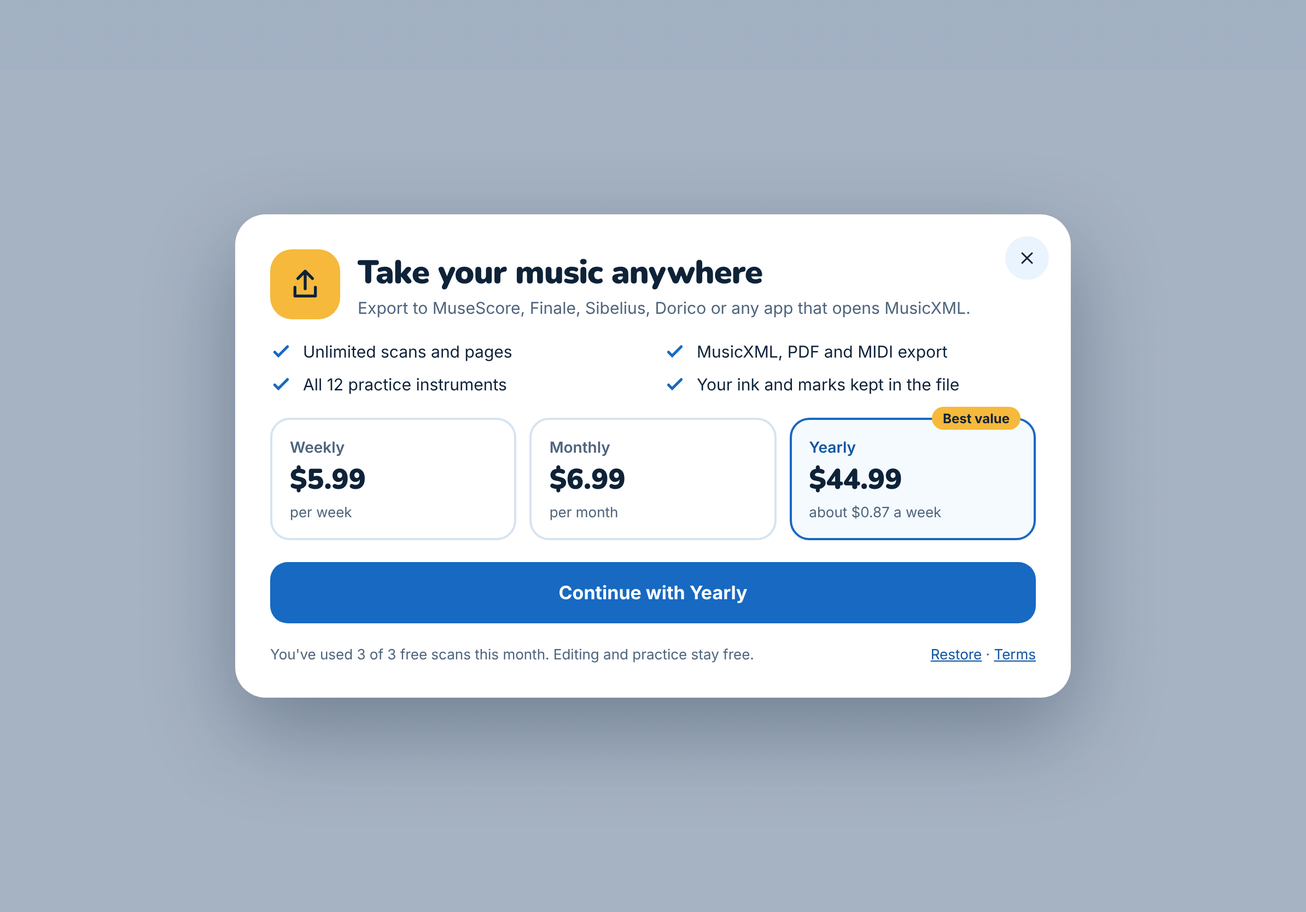
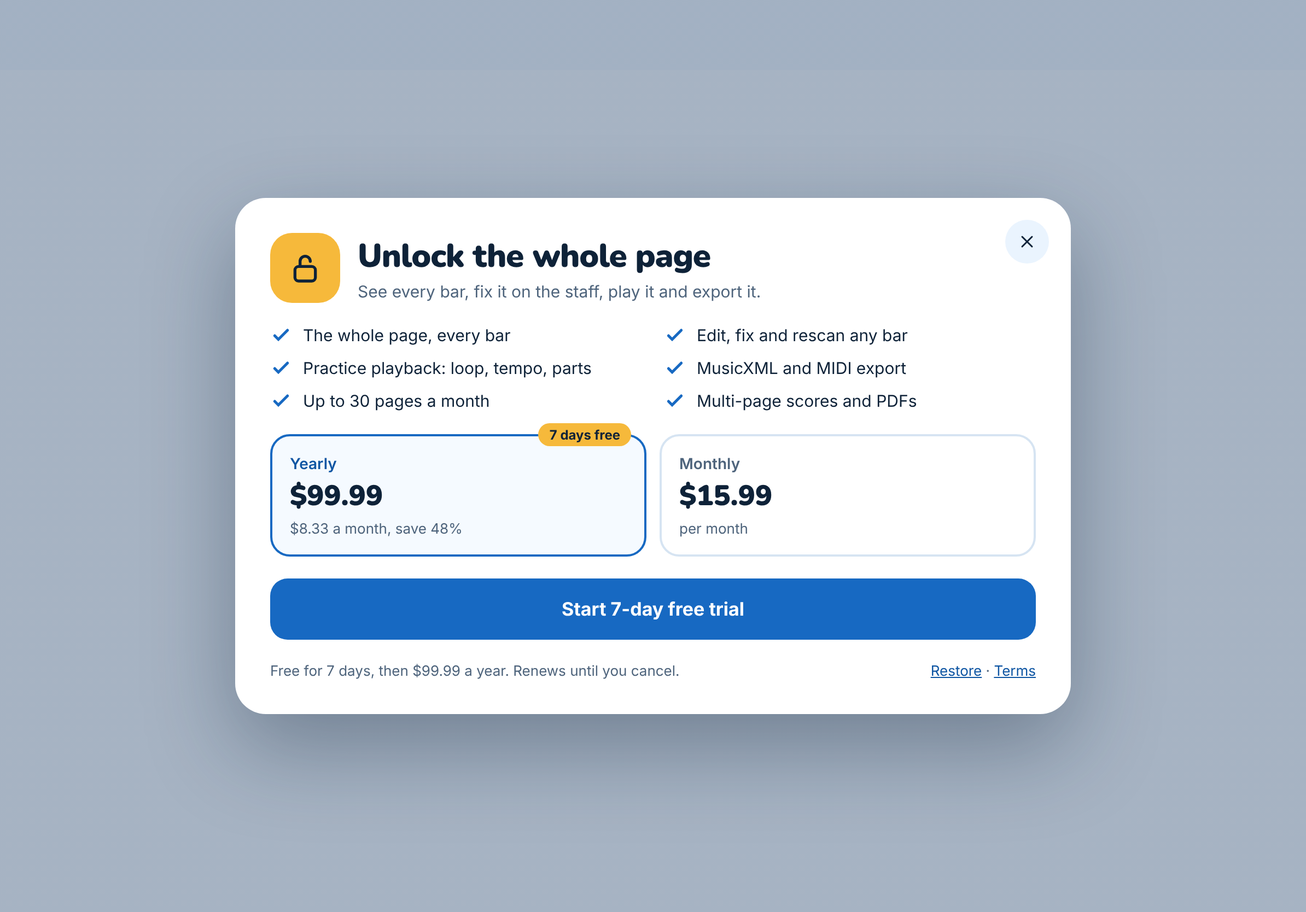
Sky design: wireframes and README match the current plans (1 free page, Pro $15.99/mo or $99.99/yr with 7-day trial, no weekly)
Claude-Session: https://claude.ai/code/session_01KFLYEm6B58rGuy4fTwAdzp

Changed region(s): [[0.1859, 0.2182, 0.8367, 0.8106]]

diff --git a/design/sky/source/iPad-8-Paywall.dc.html b/design/sky/source/iPad-8-Paywall.dc.html
@@ -24,22 +24,23 @@ a{color:#0F56A3}a:hover{color:#0E2238}
 <div style="position:relative;width:700px;border-radius:28px;background:#FFFFFF;box-shadow:0 30px 80px rgba(14,34,56,.35);padding:32px;display:flex;flex-direction:column;gap:20px">
 <a href="iPad-5-Editor.dc.html" aria-label="Close" style="position:absolute;right:20px;top:20px;display:grid;place-items:center;width:40px;height:40px;border-radius:99px;background:#EAF4FE;color:#0E2238"><svg width="18" height="18" viewBox="0 0 24 24" fill="none" stroke="currentColor" stroke-width="2" stroke-linecap="round" aria-hidden="true"><path d="M6 6l12 12M18 6L6 18"/></svg></a>
 <div style="display:flex;align-items:center;gap:16px">
-<div style="display:grid;place-items:center;width:64px;height:64px;border-radius:20px;background:#F6B93B"><svg width="32" height="32" viewBox="0 0 24 24" fill="none" stroke="#0E2238" stroke-width="2" stroke-linecap="round" stroke-linejoin="round" aria-hidden="true"><path d="M12 3v12M7 8l5-5 5 5M5 14v6h14v-6"/></svg></div>
-<div><div class="disp" style="font-size:30px;font-weight:900;letter-spacing:-.02em">Take your music anywhere</div><div style="font-size:15px;color:#4E647C;margin-top:2px">Export to MuseScore, Finale, Sibelius, Dorico or any app that opens MusicXML.</div></div>
+<div style="display:grid;place-items:center;width:64px;height:64px;border-radius:20px;background:#F6B93B"><svg width="32" height="32" viewBox="0 0 24 24" fill="none" stroke="#0E2238" stroke-width="2" stroke-linecap="round" stroke-linejoin="round" aria-hidden="true"><rect x="5" y="11" width="14" height="10" rx="2.5"/><path d="M8.5 11V7.5a3.5 3.5 0 0 1 7 0"/></svg></div>
+<div><div class="disp" style="font-size:30px;font-weight:900;letter-spacing:-.02em">Unlock the whole page</div><div style="font-size:15px;color:#4E647C;margin-top:2px">See every bar, fix it on the staff, play it and export it.</div></div>
 </div>
 <div style="display:grid;grid-template-columns:repeat(2,minmax(0,1fr));gap:10px 20px">
-<div class="li"><svg width="20" height="20" viewBox="0 0 24 24" fill="none" stroke="#1769C2" stroke-width="3" stroke-linecap="round" aria-hidden="true"><path d="M5 12l4 4 10-10"/></svg>Unlimited scans and pages</div>
-<div class="li"><svg width="20" height="20" viewBox="0 0 24 24" fill="none" stroke="#1769C2" stroke-width="3" stroke-linecap="round" aria-hidden="true"><path d="M5 12l4 4 10-10"/></svg>MusicXML, PDF and MIDI export</div>
-<div class="li"><svg width="20" height="20" viewBox="0 0 24 24" fill="none" stroke="#1769C2" stroke-width="3" stroke-linecap="round" aria-hidden="true"><path d="M5 12l4 4 10-10"/></svg>All 12 practice instruments</div>
-<div class="li"><svg width="20" height="20" viewBox="0 0 24 24" fill="none" stroke="#1769C2" stroke-width="3" stroke-linecap="round" aria-hidden="true"><path d="M5 12l4 4 10-10"/></svg>Your ink and marks kept in the file</div>
+<div class="li"><svg width="20" height="20" viewBox="0 0 24 24" fill="none" stroke="#1769C2" stroke-width="3" stroke-linecap="round" aria-hidden="true"><path d="M5 12l4 4 10-10"/></svg>The whole page, every bar</div>
+<div class="li"><svg width="20" height="20" viewBox="0 0 24 24" fill="none" stroke="#1769C2" stroke-width="3" stroke-linecap="round" aria-hidden="true"><path d="M5 12l4 4 10-10"/></svg>Edit, fix and rescan any bar</div>
+<div class="li"><svg width="20" height="20" viewBox="0 0 24 24" fill="none" stroke="#1769C2" stroke-width="3" stroke-linecap="round" aria-hidden="true"><path d="M5 12l4 4 10-10"/></svg>Practice playback: loop, tempo, parts</div>
+<div class="li"><svg width="20" height="20" viewBox="0 0 24 24" fill="none" stroke="#1769C2" stroke-width="3" stroke-linecap="round" aria-hidden="true"><path d="M5 12l4 4 10-10"/></svg>MusicXML and MIDI export</div>
+<div class="li"><svg width="20" height="20" viewBox="0 0 24 24" fill="none" stroke="#1769C2" stroke-width="3" stroke-linecap="round" aria-hidden="true"><path d="M5 12l4 4 10-10"/></svg>Up to 30 pages a month</div>
+<div class="li"><svg width="20" height="20" viewBox="0 0 24 24" fill="none" stroke="#1769C2" stroke-width="3" stroke-linecap="round" aria-hidden="true"><path d="M5 12l4 4 10-10"/></svg>Multi-page scores and PDFs</div>
 </div>
-<div style="display:grid;grid-template-columns:repeat(3,minmax(0,1fr));gap:12px">
-<button class="plan"><span style="font-size:14px;font-weight:600;color:#4E647C">Weekly</span><span class="disp" style="font-size:26px;font-weight:900">$5.99</span><span style="font-size:13px;color:#4E647C">per week</span></button>
-<button class="plan"><span style="font-size:14px;font-weight:600;color:#4E647C">Monthly</span><span class="disp" style="font-size:26px;font-weight:900">$6.99</span><span style="font-size:13px;color:#4E647C">per month</span></button>
-<button class="plan on"><span style="position:absolute;top:-12px;right:12px;padding:3px 10px;border-radius:99px;background:#F6B93B;font-size:12px;font-weight:700">Best value</span><span style="font-size:14px;font-weight:600;color:#0F56A3">Yearly</span><span class="disp" style="font-size:26px;font-weight:900">$44.99</span><span style="font-size:13px;color:#4E647C">about $0.87 a week</span></button>
+<div style="display:grid;grid-template-columns:repeat(2,minmax(0,1fr));gap:12px">
+<button class="plan on"><span style="position:absolute;top:-12px;right:12px;padding:3px 10px;border-radius:99px;background:#F6B93B;font-size:12px;font-weight:700">7 days free</span><span style="font-size:14px;font-weight:600;color:#0F56A3">Yearly</span><span class="disp" style="font-size:26px;font-weight:900">$99.99</span><span style="font-size:13px;color:#4E647C">$8.33 a month, save 48%</span></button>
+<button class="plan"><span style="font-size:14px;font-weight:600;color:#4E647C">Monthly</span><span class="disp" style="font-size:26px;font-weight:900">$15.99</span><span style="font-size:13px;color:#4E647C">per month</span></button>
 </div>
-<button class="btn" style="background:#1769C2;color:#FFFFFF">Continue with Yearly</button>
-<div style="display:flex;justify-content:space-between;font-size:13px;color:#4E647C"><span>You've used 3 of 3 free scans this month. Editing and practice stay free.</span><span><a href="#">Restore</a> · <a href="#">Terms</a></span></div>
+<button class="btn" style="background:#1769C2;color:#FFFFFF">Start 7-day free trial</button>
+<div style="display:flex;justify-content:space-between;font-size:13px;color:#4E647C"><span>Free for 7 days, then $99.99 a year. Renews until you cancel.</span><span><a href="#">Restore</a> · <a href="#">Terms</a></span></div>
 </div>
 </div>
 </x-dc>

diff --git a/design/sky/wireframes/iPad-8-Paywall.html b/design/sky/wireframes/iPad-8-Paywall.html
@@ -21,22 +21,23 @@ a{color:#0F56A3}a:hover{color:#0E2238}
 <div style="position:relative;width:700px;border-radius:28px;background:#FFFFFF;box-shadow:0 30px 80px rgba(14,34,56,.35);padding:32px;display:flex;flex-direction:column;gap:20px">
 <a href="iPad-5-Editor.html" aria-label="Close" style="position:absolute;right:20px;top:20px;display:grid;place-items:center;width:40px;height:40px;border-radius:99px;background:#EAF4FE;color:#0E2238"><svg width="18" height="18" viewBox="0 0 24 24" fill="none" stroke="currentColor" stroke-width="2" stroke-linecap="round" aria-hidden="true"><path d="M6 6l12 12M18 6L6 18"/></svg></a>
 <div style="display:flex;align-items:center;gap:16px">
-<div style="display:grid;place-items:center;width:64px;height:64px;border-radius:20px;background:#F6B93B"><svg width="32" height="32" viewBox="0 0 24 24" fill="none" stroke="#0E2238" stroke-width="2" stroke-linecap="round" stroke-linejoin="round" aria-hidden="true"><path d="M12 3v12M7 8l5-5 5 5M5 14v6h14v-6"/></svg></div>
-<div><div class="disp" style="font-size:30px;font-weight:900;letter-spacing:-.02em">Take your music anywhere</div><div style="font-size:15px;color:#4E647C;margin-top:2px">Export to MuseScore, Finale, Sibelius, Dorico or any app that opens MusicXML.</div></div>
+<div style="display:grid;place-items:center;width:64px;height:64px;border-radius:20px;background:#F6B93B"><svg width="32" height="32" viewBox="0 0 24 24" fill="none" stroke="#0E2238" stroke-width="2" stroke-linecap="round" stroke-linejoin="round" aria-hidden="true"><rect x="5" y="11" width="14" height="10" rx="2.5"/><path d="M8.5 11V7.5a3.5 3.5 0 0 1 7 0"/></svg></div>
+<div><div class="disp" style="font-size:30px;font-weight:900;letter-spacing:-.02em">Unlock the whole page</div><div style="font-size:15px;color:#4E647C;margin-top:2px">See every bar, fix it on the staff, play it and export it.</div></div>
 </div>
 <div style="display:grid;grid-template-columns:repeat(2,minmax(0,1fr));gap:10px 20px">
-<div class="li"><svg width="20" height="20" viewBox="0 0 24 24" fill="none" stroke="#1769C2" stroke-width="3" stroke-linecap="round" aria-hidden="true"><path d="M5 12l4 4 10-10"/></svg>Unlimited scans and pages</div>
-<div class="li"><svg width="20" height="20" viewBox="0 0 24 24" fill="none" stroke="#1769C2" stroke-width="3" stroke-linecap="round" aria-hidden="true"><path d="M5 12l4 4 10-10"/></svg>MusicXML, PDF and MIDI export</div>
-<div class="li"><svg width="20" height="20" viewBox="0 0 24 24" fill="none" stroke="#1769C2" stroke-width="3" stroke-linecap="round" aria-hidden="true"><path d="M5 12l4 4 10-10"/></svg>All 12 practice instruments</div>
-<div class="li"><svg width="20" height="20" viewBox="0 0 24 24" fill="none" stroke="#1769C2" stroke-width="3" stroke-linecap="round" aria-hidden="true"><path d="M5 12l4 4 10-10"/></svg>Your ink and marks kept in the file</div>
+<div class="li"><svg width="20" height="20" viewBox="0 0 24 24" fill="none" stroke="#1769C2" stroke-width="3" stroke-linecap="round" aria-hidden="true"><path d="M5 12l4 4 10-10"/></svg>The whole page, every bar</div>
+<div class="li"><svg width="20" height="20" viewBox="0 0 24 24" fill="none" stroke="#1769C2" stroke-width="3" stroke-linecap="round" aria-hidden="true"><path d="M5 12l4 4 10-10"/></svg>Edit, fix and rescan any bar</div>
+<div class="li"><svg width="20" height="20" viewBox="0 0 24 24" fill="none" stroke="#1769C2" stroke-width="3" stroke-linecap="round" aria-hidden="true"><path d="M5 12l4 4 10-10"/></svg>Practice playback: loop, tempo, parts</div>
+<div class="li"><svg width="20" height="20" viewBox="0 0 24 24" fill="none" stroke="#1769C2" stroke-width="3" stroke-linecap="round" aria-hidden="true"><path d="M5 12l4 4 10-10"/></svg>MusicXML and MIDI export</div>
+<div class="li"><svg width="20" height="20" viewBox="0 0 24 24" fill="none" stroke="#1769C2" stroke-width="3" stroke-linecap="round" aria-hidden="true"><path d="M5 12l4 4 10-10"/></svg>Up to 30 pages a month</div>
+<div class="li"><svg width="20" height="20" viewBox="0 0 24 24" fill="none" stroke="#1769C2" stroke-width="3" stroke-linecap="round" aria-hidden="true"><path d="M5 12l4 4 10-10"/></svg>Multi-page scores and PDFs</div>
 </div>
-<div style="display:grid;grid-template-columns:repeat(3,minmax(0,1fr));gap:12px">
-<button class="plan"><span style="font-size:14px;font-weight:600;color:#4E647C">Weekly</span><span class="disp" style="font-size:26px;font-weight:900">$5.99</span><span style="font-size:13px;color:#4E647C">per week</span></button>
-<button class="plan"><span style="font-size:14px;font-weight:600;color:#4E647C">Monthly</span><span class="disp" style="font-size:26px;font-weight:900">$6.99</span><span style="font-size:13px;color:#4E647C">per month</span></button>
-<button class="plan on"><span style="position:absolute;top:-12px;right:12px;padding:3px 10px;border-radius:99px;background:#F6B93B;font-size:12px;font-weight:700">Best value</span><span style="font-size:14px;font-weight:600;color:#0F56A3">Yearly</span><span class="disp" style="font-size:26px;font-weight:900">$44.99</span><span style="font-size:13px;color:#4E647C">about $0.87 a week</span></button>
+<div style="display:grid;grid-template-columns:repeat(2,minmax(0,1fr));gap:12px">
+<button class="plan on"><span style="position:absolute;top:-12px;right:12px;padding:3px 10px;border-radius:99px;background:#F6B93B;font-size:12px;font-weight:700">7 days free</span><span style="font-size:14px;font-weight:600;color:#0F56A3">Yearly</span><span class="disp" style="font-size:26px;font-weight:900">$99.99</span><span style="font-size:13px;color:#4E647C">$8.33 a month, save 48%</span></button>
+<button class="plan"><span style="font-size:14px;font-weight:600;color:#4E647C">Monthly</span><span class="disp" style="font-size:26px;font-weight:900">$15.99</span><span style="font-size:13px;color:#4E647C">per month</span></button>
 </div>
-<button class="btn" style="background:#1769C2;color:#FFFFFF">Continue with Yearly</button>
-<div style="display:flex;justify-content:space-between;font-size:13px;color:#4E647C"><span>You've used 3 of 3 free scans this month. Editing and practice stay free.</span><span><a href="#">Restore</a> · <a href="#">Terms</a></span></div>
+<button class="btn" style="background:#1769C2;color:#FFFFFF">Start 7-day free trial</button>
+<div style="display:flex;justify-content:space-between;font-size:13px;color:#4E647C"><span>Free for 7 days, then $99.99 a year. Renews until you cancel.</span><span><a href="#">Restore</a> · <a href="#">Terms</a></span></div>
 </div>
 </div>
 </body>

diff --git a/design/sky/source/iPhone-5-Paywall.dc.html b/design/sky/source/iPhone-5-Paywall.dc.html
@@ -21,20 +21,21 @@ a{color:#0F56A3}a:hover{color:#0E2238}
 </helmet>
 <div style="width:390px;height:844px;box-sizing:border-box;background:#FFFFFF;font-family:Inter,system-ui,sans-serif;color:#0E2238;display:flex;flex-direction:column;gap:16px;padding:60px 20px 34px">
 <div style="display:flex;justify-content:flex-end"><a href="iPhone-3-Editor.dc.html" aria-label="Close" style="display:grid;place-items:center;width:40px;height:40px;border-radius:99px;background:#EAF4FE;color:#0E2238"><svg width="18" height="18" viewBox="0 0 24 24" fill="none" stroke="currentColor" stroke-width="2" stroke-linecap="round" aria-hidden="true"><path d="M6 6l12 12M18 6L6 18"/></svg></a></div>
-<div style="display:grid;place-items:center;width:64px;height:64px;border-radius:20px;background:#F6B93B"><svg width="30" height="30" viewBox="0 0 24 24" fill="none" stroke="#0E2238" stroke-width="2" stroke-linecap="round" stroke-linejoin="round" aria-hidden="true"><path d="M12 3v12M7 8l5-5 5 5M5 14v6h14v-6"/></svg></div>
-<div class="disp" style="font-size:30px;font-weight:900;letter-spacing:-.02em;line-height:1.1">Take your music anywhere</div>
+<div style="display:grid;place-items:center;width:64px;height:64px;border-radius:20px;background:#F6B93B"><svg width="30" height="30" viewBox="0 0 24 24" fill="none" stroke="#0E2238" stroke-width="2" stroke-linecap="round" stroke-linejoin="round" aria-hidden="true"><rect x="5" y="11" width="14" height="10" rx="2.5"/><path d="M8.5 11V7.5a3.5 3.5 0 0 1 7 0"/></svg></div>
+<div class="disp" style="font-size:30px;font-weight:900;letter-spacing:-.02em;line-height:1.1">Unlock the whole page</div>
 <div style="display:flex;flex-direction:column;gap:10px">
-<div class="li"><svg width="18" height="18" viewBox="0 0 24 24" fill="none" stroke="#1769C2" stroke-width="3" stroke-linecap="round" aria-hidden="true"><path d="M5 12l4 4 10-10"/></svg>Unlimited scans and pages</div>
-<div class="li"><svg width="18" height="18" viewBox="0 0 24 24" fill="none" stroke="#1769C2" stroke-width="3" stroke-linecap="round" aria-hidden="true"><path d="M5 12l4 4 10-10"/></svg>MusicXML, PDF and MIDI export</div>
-<div class="li"><svg width="18" height="18" viewBox="0 0 24 24" fill="none" stroke="#1769C2" stroke-width="3" stroke-linecap="round" aria-hidden="true"><path d="M5 12l4 4 10-10"/></svg>All 12 practice instruments</div>
+<div class="li"><svg width="18" height="18" viewBox="0 0 24 24" fill="none" stroke="#1769C2" stroke-width="3" stroke-linecap="round" aria-hidden="true"><path d="M5 12l4 4 10-10"/></svg>The whole page, every bar</div>
+<div class="li"><svg width="18" height="18" viewBox="0 0 24 24" fill="none" stroke="#1769C2" stroke-width="3" stroke-linecap="round" aria-hidden="true"><path d="M5 12l4 4 10-10"/></svg>Edit, fix and rescan any bar</div>
+<div class="li"><svg width="18" height="18" viewBox="0 0 24 24" fill="none" stroke="#1769C2" stroke-width="3" stroke-linecap="round" aria-hidden="true"><path d="M5 12l4 4 10-10"/></svg>Practice playback: loop, tempo, parts</div>
+<div class="li"><svg width="18" height="18" viewBox="0 0 24 24" fill="none" stroke="#1769C2" stroke-width="3" stroke-linecap="round" aria-hidden="true"><path d="M5 12l4 4 10-10"/></svg>MusicXML and MIDI export</div>
+<div class="li"><svg width="18" height="18" viewBox="0 0 24 24" fill="none" stroke="#1769C2" stroke-width="3" stroke-linecap="round" aria-hidden="true"><path d="M5 12l4 4 10-10"/></svg>Up to 30 pages a month</div>
 </div>
 <div style="display:flex;flex-direction:column;gap:8px;margin-top:auto">
-<button class="plan on"><span class="rad" style="border:6px solid #1769C2"></span><span style="flex:1"><b>Yearly</b><br><span style="font-size:13px;color:#4E647C">$44.99 · about $0.87 a week</span></span><span style="padding:3px 8px;border-radius:99px;background:#F6B93B;font-size:11px;font-weight:700">Best value</span></button>
-<button class="plan"><span class="rad"></span><span style="flex:1"><b>Monthly</b><br><span style="font-size:13px;color:#4E647C">$6.99 a month</span></span></button>
-<button class="plan"><span class="rad"></span><span style="flex:1"><b>Weekly</b><br><span style="font-size:13px;color:#4E647C">$5.99 a week</span></span></button>
+<button class="plan on"><span class="rad" style="border:6px solid #1769C2"></span><span style="flex:1"><b>Yearly</b><br><span style="font-size:13px;color:#4E647C">$99.99 a year · $8.33 a month</span></span><span style="padding:3px 8px;border-radius:99px;background:#F6B93B;font-size:11px;font-weight:700">7 days free</span></button>
+<button class="plan"><span class="rad"></span><span style="flex:1"><b>Monthly</b><br><span style="font-size:13px;color:#4E647C">$15.99 a month</span></span></button>
 </div>
-<button style="height:56px;border-radius:16px;border:0;background:#1769C2;color:#FFFFFF;font:700 17px Inter,system-ui,sans-serif">Continue</button>
-<div style="text-align:center;font-size:12px;color:#4E647C">Editing and practice stay free. <a href="#">Restore</a> · <a href="#">Terms</a></div>
+<button style="height:56px;border-radius:16px;border:0;background:#1769C2;color:#FFFFFF;font:700 17px Inter,system-ui,sans-serif">Start 7-day free trial</button>
+<div style="text-align:center;font-size:12px;color:#4E647C">Free for 7 days, then $99.99 a year. <a href="#">Restore</a> · <a href="#">Terms</a></div>
 </div>
 </x-dc>
 <script type="text/x-dc" data-dc-script data-props='{"$preview":{"width":390,"height":844}}'>

diff --git a/design/sky/wireframes/iPhone-5-Paywall.html b/design/sky/wireframes/iPhone-5-Paywall.html
@@ -18,20 +18,21 @@ a{color:#0F56A3}a:hover{color:#0E2238}
 <body>
 <div style="width:390px;height:844px;box-sizing:border-box;background:#FFFFFF;font-family:Inter,system-ui,sans-serif;color:#0E2238;display:flex;flex-direction:column;gap:16px;padding:60px 20px 34px">
 <div style="display:flex;justify-content:flex-end"><a href="iPhone-3-Editor.html" aria-label="Close" style="display:grid;place-items:center;width:40px;height:40px;border-radius:99px;background:#EAF4FE;color:#0E2238"><svg width="18" height="18" viewBox="0 0 24 24" fill="none" stroke="currentColor" stroke-width="2" stroke-linecap="round" aria-hidden="true"><path d="M6 6l12 12M18 6L6 18"/></svg></a></div>
-<div style="display:grid;place-items:center;width:64px;height:64px;border-radius:20px;background:#F6B93B"><svg width="30" height="30" viewBox="0 0 24 24" fill="none" stroke="#0E2238" stroke-width="2" stroke-linecap="round" stroke-linejoin="round" aria-hidden="true"><path d="M12 3v12M7 8l5-5 5 5M5 14v6h14v-6"/></svg></div>
-<div class="disp" style="font-size:30px;font-weight:900;letter-spacing:-.02em;line-height:1.1">Take your music anywhere</div>
+<div style="display:grid;place-items:center;width:64px;height:64px;border-radius:20px;background:#F6B93B"><svg width="30" height="30" viewBox="0 0 24 24" fill="none" stroke="#0E2238" stroke-width="2" stroke-linecap="round" stroke-linejoin="round" aria-hidden="true"><rect x="5" y="11" width="14" height="10" rx="2.5"/><path d="M8.5 11V7.5a3.5 3.5 0 0 1 7 0"/></svg></div>
+<div class="disp" style="font-size:30px;font-weight:900;letter-spacing:-.02em;line-height:1.1">Unlock the whole page</div>
 <div style="display:flex;flex-direction:column;gap:10px">
-<div class="li"><svg width="18" height="18" viewBox="0 0 24 24" fill="none" stroke="#1769C2" stroke-width="3" stroke-linecap="round" aria-hidden="true"><path d="M5 12l4 4 10-10"/></svg>Unlimited scans and pages</div>
-<div class="li"><svg width="18" height="18" viewBox="0 0 24 24" fill="none" stroke="#1769C2" stroke-width="3" stroke-linecap="round" aria-hidden="true"><path d="M5 12l4 4 10-10"/></svg>MusicXML, PDF and MIDI export</div>
-<div class="li"><svg width="18" height="18" viewBox="0 0 24 24" fill="none" stroke="#1769C2" stroke-width="3" stroke-linecap="round" aria-hidden="true"><path d="M5 12l4 4 10-10"/></svg>All 12 practice instruments</div>
+<div class="li"><svg width="18" height="18" viewBox="0 0 24 24" fill="none" stroke="#1769C2" stroke-width="3" stroke-linecap="round" aria-hidden="true"><path d="M5 12l4 4 10-10"/></svg>The whole page, every bar</div>
+<div class="li"><svg width="18" height="18" viewBox="0 0 24 24" fill="none" stroke="#1769C2" stroke-width="3" stroke-linecap="round" aria-hidden="true"><path d="M5 12l4 4 10-10"/></svg>Edit, fix and rescan any bar</div>
+<div class="li"><svg width="18" height="18" viewBox="0 0 24 24" fill="none" stroke="#1769C2" stroke-width="3" stroke-linecap="round" aria-hidden="true"><path d="M5 12l4 4 10-10"/></svg>Practice playback: loop, tempo, parts</div>
+<div class="li"><svg width="18" height="18" viewBox="0 0 24 24" fill="none" stroke="#1769C2" stroke-width="3" stroke-linecap="round" aria-hidden="true"><path d="M5 12l4 4 10-10"/></svg>MusicXML and MIDI export</div>
+<div class="li"><svg width="18" height="18" viewBox="0 0 24 24" fill="none" stroke="#1769C2" stroke-width="3" stroke-linecap="round" aria-hidden="true"><path d="M5 12l4 4 10-10"/></svg>Up to 30 pages a month</div>
 </div>
 <div style="display:flex;flex-direction:column;gap:8px;margin-top:auto">
-<button class="plan on"><span class="rad" style="border:6px solid #1769C2"></span><span style="flex:1"><b>Yearly</b><br><span style="font-size:13px;color:#4E647C">$44.99 · about $0.87 a week</span></span><span style="padding:3px 8px;border-radius:99px;background:#F6B93B;font-size:11px;font-weight:700">Best value</span></button>
-<button class="plan"><span class="rad"></span><span style="flex:1"><b>Monthly</b><br><span style="font-size:13px;color:#4E647C">$6.99 a month</span></span></button>
-<button class="plan"><span class="rad"></span><span style="flex:1"><b>Weekly</b><br><span style="font-size:13px;color:#4E647C">$5.99 a week</span></span></button>
+<button class="plan on"><span class="rad" style="border:6px solid #1769C2"></span><span style="flex:1"><b>Yearly</b><br><span style="font-size:13px;color:#4E647C">$99.99 a year · $8.33 a month</span></span><span style="padding:3px 8px;border-radius:99px;background:#F6B93B;font-size:11px;font-weight:700">7 days free</span></button>
+<button class="plan"><span class="rad"></span><span style="flex:1"><b>Monthly</b><br><span style="font-size:13px;color:#4E647C">$15.99 a month</span></span></button>
 </div>
-<button style="height:56px;border-radius:16px;border:0;background:#1769C2;color:#FFFFFF;font:700 17px Inter,system-ui,sans-serif">Continue</button>
-<div style="text-align:center;font-size:12px;color:#4E647C">Editing and practice stay free. <a href="#">Restore</a> · <a href="#">Terms</a></div>
+<button style="height:56px;border-radius:16px;border:0;background:#1769C2;color:#FFFFFF;font:700 17px Inter,system-ui,sans-serif">Start 7-day free trial</button>
+<div style="text-align:center;font-size:12px;color:#4E647C">Free for 7 days, then $99.99 a year. <a href="#">Restore</a> · <a href="#">Terms</a></div>
 </div>
 </body>
 </html>

diff --git a/design/sky/source/iPad-2-Library.dc.html b/design/sky/source/iPad-2-Library.dc.html
@@ -26,7 +26,7 @@ a{color:#0F56A3}a:hover{color:#0E2238}
 <span class="disp" style="font-size:21px;font-weight:900">MusicScan</span>
 <label style="margin-left:24px;flex:1;max-width:380px;display:flex;align-items:center;gap:8px;height:40px;padding:0 14px;border-radius:12px;background:#FFFFFF;border:1px solid #D6E4F2;color:#4E647C;font-size:15px"><svg width="18" height="18" viewBox="0 0 24 24" fill="none" stroke="currentColor" stroke-width="1.75" stroke-linecap="round" aria-hidden="true"><circle cx="11" cy="11" r="6.5"/><path d="M16 16l4 4"/></svg><input aria-label="Search your music" placeholder="Search your music" style="border:0;outline:0;background:transparent;font:inherit;flex:1;color:#0E2238"></label>
 <div style="margin-left:auto;display:flex;align-items:center;gap:12px">
-<div style="display:flex;flex-direction:column;align-items:flex-end;gap:4px;font-size:12px;color:#4E647C">2 of 3 free scans left<div style="width:120px;height:6px;border-radius:99px;background:#D8EAFC"><div style="width:66%;height:6px;border-radius:99px;background:#1769C2"></div></div></div>
+<div style="display:flex;flex-direction:column;align-items:flex-end;gap:4px;font-size:12px;color:#4E647C">1 free page left<div style="width:120px;height:6px;border-radius:99px;background:#D8EAFC"><div style="width:100%;height:6px;border-radius:99px;background:#1769C2"></div></div></div>
 <a class="btn" href="iPad-3-Capture.dc.html" style="background:#1769C2;color:#FFFFFF"><svg width="18" height="18" viewBox="0 0 24 24" fill="none" stroke="currentColor" stroke-width="2" stroke-linecap="round" stroke-linejoin="round" aria-hidden="true"><path d="M4 9V4h5M15 4h5v5M20 15v5h-5M9 20H4v-5"/></svg>Scan</a>
 </div>
 </div>

diff --git a/design/sky/wireframes/iPad-2-Library.html b/design/sky/wireframes/iPad-2-Library.html
@@ -23,7 +23,7 @@ a{color:#0F56A3}a:hover{color:#0E2238}
 <span class="disp" style="font-size:21px;font-weight:900">MusicScan</span>
 <label style="margin-left:24px;flex:1;max-width:380px;display:flex;align-items:center;gap:8px;height:40px;padding:0 14px;border-radius:12px;background:#FFFFFF;border:1px solid #D6E4F2;color:#4E647C;font-size:15px"><svg width="18" height="18" viewBox="0 0 24 24" fill="none" stroke="currentColor" stroke-width="1.75" stroke-linecap="round" aria-hidden="true"><circle cx="11" cy="11" r="6.5"/><path d="M16 16l4 4"/></svg><input aria-label="Search your music" placeholder="Search your music" style="border:0;outline:0;background:transparent;font:inherit;flex:1;color:#0E2238"></label>
 <div style="margin-left:auto;display:flex;align-items:center;gap:12px">
-<div style="display:flex;flex-direction:column;align-items:flex-end;gap:4px;font-size:12px;color:#4E647C">2 of 3 free scans left<div style="width:120px;height:6px;border-radius:99px;background:#D8EAFC"><div style="width:66%;height:6px;border-radius:99px;background:#1769C2"></div></div></div>
+<div style="display:flex;flex-direction:column;align-items:flex-end;gap:4px;font-size:12px;color:#4E647C">1 free page left<div style="width:120px;height:6px;border-radius:99px;background:#D8EAFC"><div style="width:100%;height:6px;border-radius:99px;background:#1769C2"></div></div></div>
 <a class="btn" href="iPad-3-Capture.html" style="background:#1769C2;color:#FFFFFF"><svg width="18" height="18" viewBox="0 0 24 24" fill="none" stroke="currentColor" stroke-width="2" stroke-linecap="round" stroke-linejoin="round" aria-hidden="true"><path d="M4 9V4h5M15 4h5v5M20 15v5h-5M9 20H4v-5"/></svg>Scan</a>
 </div>
 </div>

diff --git a/design/sky/source/iPhone-1-Library.dc.html b/design/sky/source/iPhone-1-Library.dc.html
@@ -20,7 +20,7 @@ a{color:#0F56A3}a:hover{color:#0E2238}
 <div style="width:390px;height:844px;box-sizing:border-box;background:#F5FAFF;font-family:Inter,system-ui,sans-serif;color:#0E2238;display:flex;flex-direction:column">
 <div style="padding:60px 20px 12px;display:flex;align-items:center;gap:10px">
 <h1 class="disp" style="margin:0;font-size:32px;font-weight:900;letter-spacing:-.02em;flex:1">Your music</h1>
-<span style="font-size:12px;color:#4E647C;text-align:right">3 free scans<br>this month</span>
+<span style="font-size:12px;color:#4E647C;text-align:right">First page<br>is free</span>
 </div>
 <div style="flex:1;display:flex;flex-direction:column;align-items:center;justify-content:center;text-align:center;gap:14px;padding:0 32px">
 <svg width="200" height="130" viewBox="0 0 160 96" aria-hidden="true"><rect x="30" y="8" width="100" height="80" rx="10" fill="#FFFFFF" stroke="#B9D9F7" stroke-width="2"/><g stroke="#D8EAFC" stroke-width="2"><path d="M42 30h76M42 36h76M42 42h76M42 48h76M42 54h76"/></g><path d="M22 26V14h12M126 14h12v12M138 70v12h-12M34 82H22V70" fill="none" stroke="#1769C2" stroke-width="3" stroke-linecap="round"/><ellipse cx="72" cy="51" rx="6" ry="4.5" transform="rotate(-20 72 51)" fill="#5FAEEB"/><path d="M77.5 49V30" stroke="#5FAEEB" stroke-width="2.5"/></svg>

diff --git a/design/sky/wireframes/iPhone-1-Library.html b/design/sky/wireframes/iPhone-1-Library.html
@@ -17,7 +17,7 @@ a{color:#0F56A3}a:hover{color:#0E2238}
 <div style="width:390px;height:844px;box-sizing:border-box;background:#F5FAFF;font-family:Inter,system-ui,sans-serif;color:#0E2238;display:flex;flex-direction:column">
 <div style="padding:60px 20px 12px;display:flex;align-items:center;gap:10px">
 <h1 class="disp" style="margin:0;font-size:32px;font-weight:900;letter-spacing:-.02em;flex:1">Your music</h1>
-<span style="font-size:12px;color:#4E647C;text-align:right">3 free scans<br>this month</span>
+<span style="font-size:12px;color:#4E647C;text-align:right">First page<br>is free</span>
 </div>
 <div style="flex:1;display:flex;flex-direction:column;align-items:center;justify-content:center;text-align:center;gap:14px;padding:0 32px">
 <svg width="200" height="130" viewBox="0 0 160 96" aria-hidden="true"><rect x="30" y="8" width="100" height="80" rx="10" fill="#FFFFFF" stroke="#B9D9F7" stroke-width="2"/><g stroke="#D8EAFC" stroke-width="2"><path d="M42 30h76M42 36h76M42 42h76M42 48h76M42 54h76"/></g><path d="M22 26V14h12M126 14h12v12M138 70v12h-12M34 82H22V70" fill="none" stroke="#1769C2" stroke-width="3" stroke-linecap="round"/><ellipse cx="72" cy="51" rx="6" ry="4.5" transform="rotate(-20 72 51)" fill="#5FAEEB"/><path d="M77.5 49V30" stroke="#5FAEEB" stroke-width="2.5"/></svg>

diff --git a/design/sky/source/iPad-1-Welcome.dc.html b/design/sky/source/iPad-1-Welcome.dc.html
@@ -35,7 +35,7 @@ a{color:#0F56A3}a:hover{color:#0E2238}
 <a class="btn" href="iPad-3-Capture.dc.html" style="background:#1769C2;color:#FFFFFF">Scan your first page</a>
 <a class="btn" href="iPad-5-Editor.dc.html" style="background:#FFFFFF;color:#0E2238;border-color:#C9DDF1">Try a sample</a>
 </div>
-<div style="font-size:13px;color:#4E647C">3 free scans every month. No account needed to start.</div>
+<div style="font-size:13px;color:#4E647C">Your first page is free. No account needed to start.</div>
 </div>
 <div style="position:relative;width:500px;display:grid;place-items:center">
 <div style="position:relative;width:340px;height:450px;transform:rotate(3deg)">

diff --git a/design/sky/wireframes/iPad-1-Welcome.html b/design/sky/wireframes/iPad-1-Welcome.html
@@ -32,7 +32,7 @@ a{color:#0F56A3}a:hover{color:#0E2238}
 <a class="btn" href="iPad-3-Capture.html" style="background:#1769C2;color:#FFFFFF">Scan your first page</a>
 <a class="btn" href="iPad-5-Editor.html" style="background:#FFFFFF;color:#0E2238;border-color:#C9DDF1">Try a sample</a>
 </div>
-<div style="font-size:13px;color:#4E647C">3 free scans every month. No account needed to start.</div>
+<div style="font-size:13px;color:#4E647C">Your first page is free. No account needed to start.</div>
 </div>
 <div style="position:relative;width:500px;display:grid;place-items:center">
 <div style="position:relative;width:340px;height:450px;transform:rotate(3deg)">

diff --git a/design/sky/README.md b/design/sky/README.md
@@ -42,7 +42,7 @@ Run a test with `NODE_PATH=$(npm root -g) node tests/<name>.js`.
 
 - Capture on iOS should keep VisionKit's document camera. The live photo check in `capture.js` is for the web; its thresholds (sharpness, paper brightness, fill and motion) are a starting point if you add a check before upload.
 - Plans (Allen, 2026-11-26): Pro $15.99 a month or $99.99 a year (default, "Best value", 7-day free trial for intro-offer eligible users), up to 30 pages a month. New users get 1 free page with every feature; after that a scan previews the first half of the page and blurs the rest, and editing, playback and export ask to unlock. No weekly plan. Payments are not connected yet (see docs/AGENT_PROMPTS.md, Stream 5).
-- The two paywall wireframes (iPad 8, iPhone 5) still show the earlier weekly/monthly/yearly prices. Use their layout only; prices, plans and copy come from `PLAN` in `web/js/paywall.js` (see `screens/` for the built paywall).
+- The paywall wireframes (iPad 8, iPhone 5) and the free-page notes on Welcome and Library match these plans. The paywall shots in `screens/` show the built sheet, and `half_page_preview_ipad.png` shows the blurred half-page preview. `PLAN` in `web/js/paywall.js` is the source of truth for prices and copy.
 - On iPhone the editor puts durations in a bottom bar and the paywall is a bottom sheet. On iPad the photo sits beside the score.
 
 ## Assumptions to confirm
